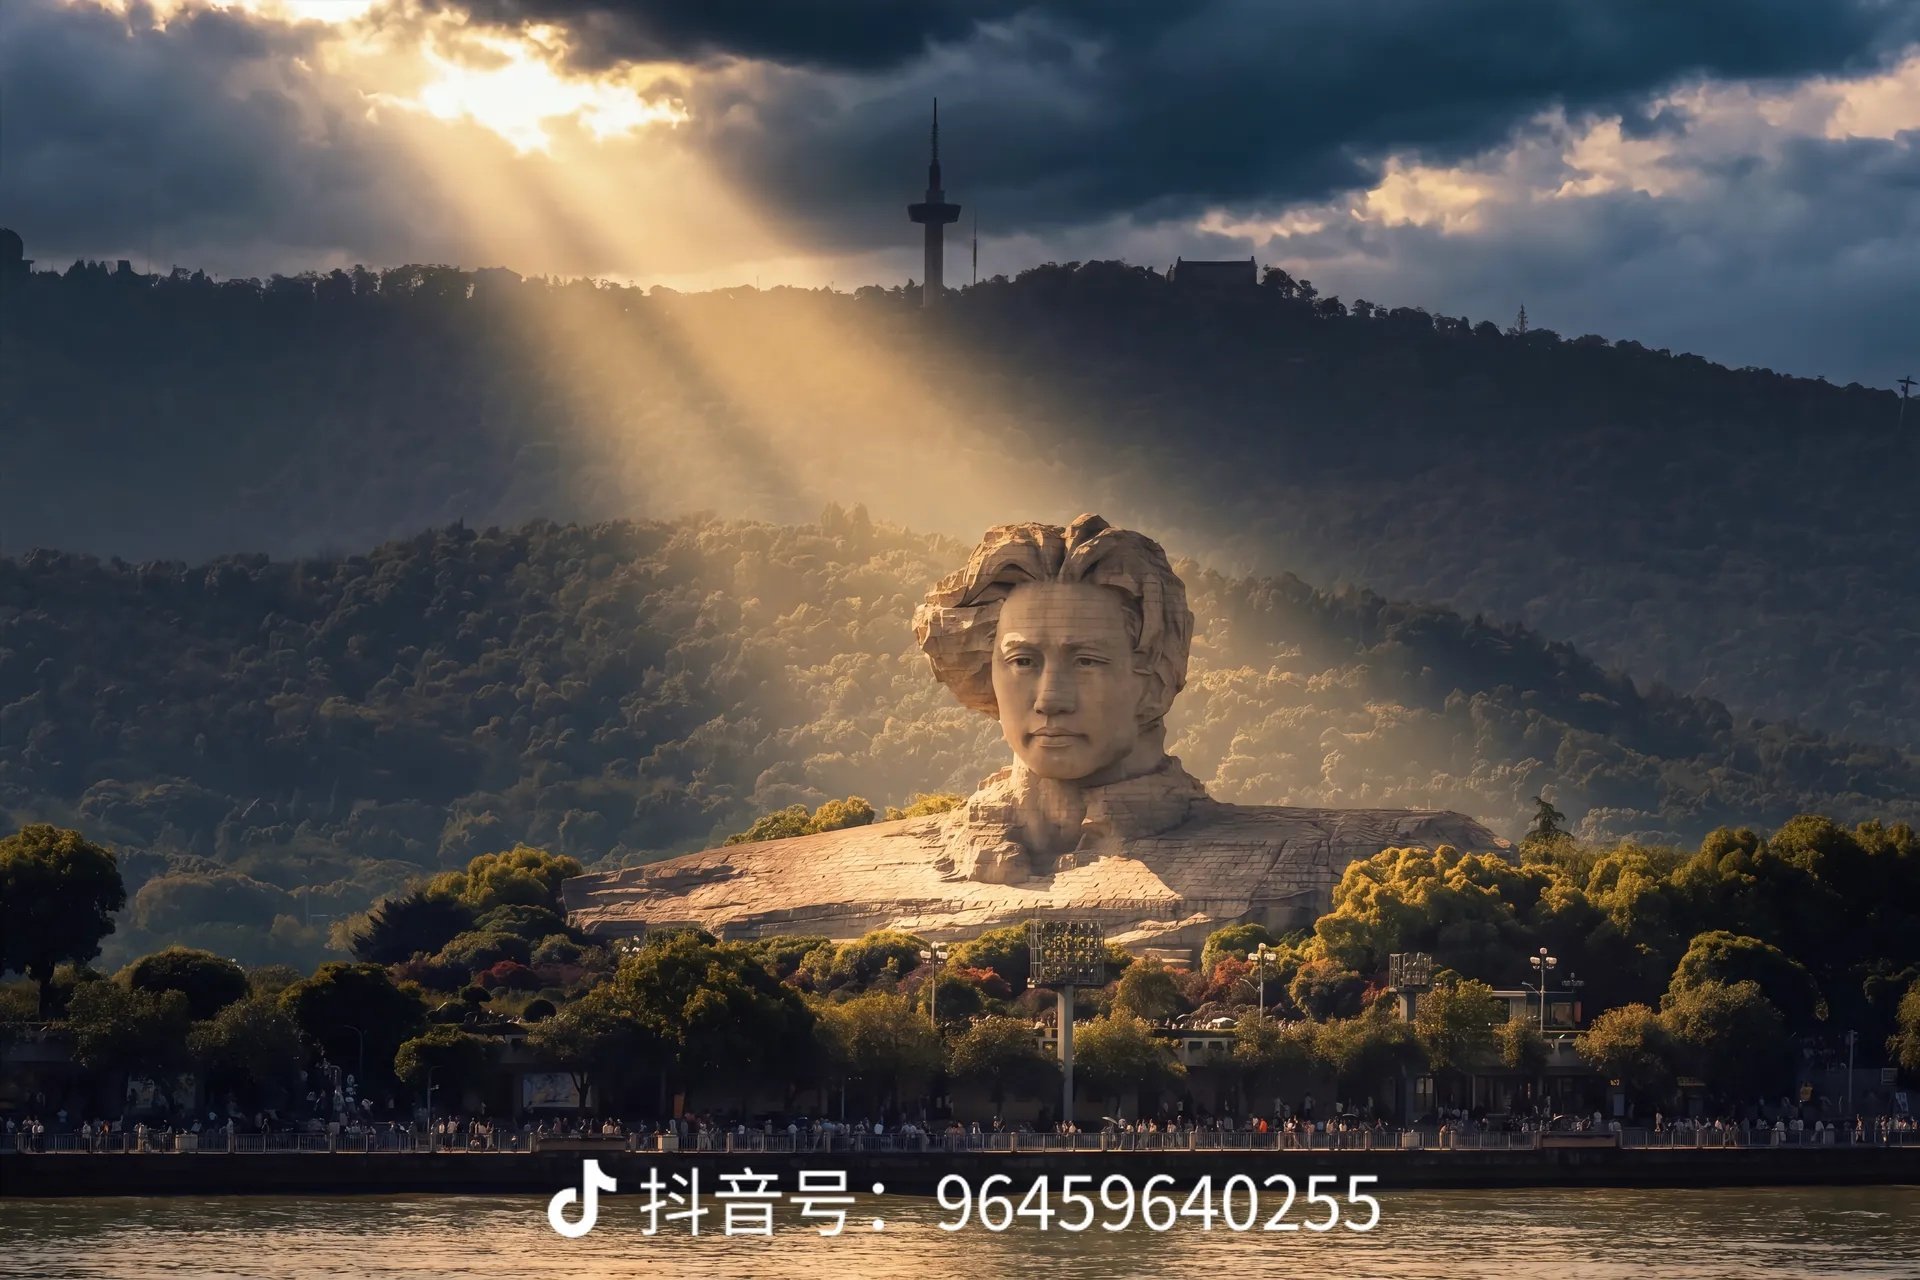
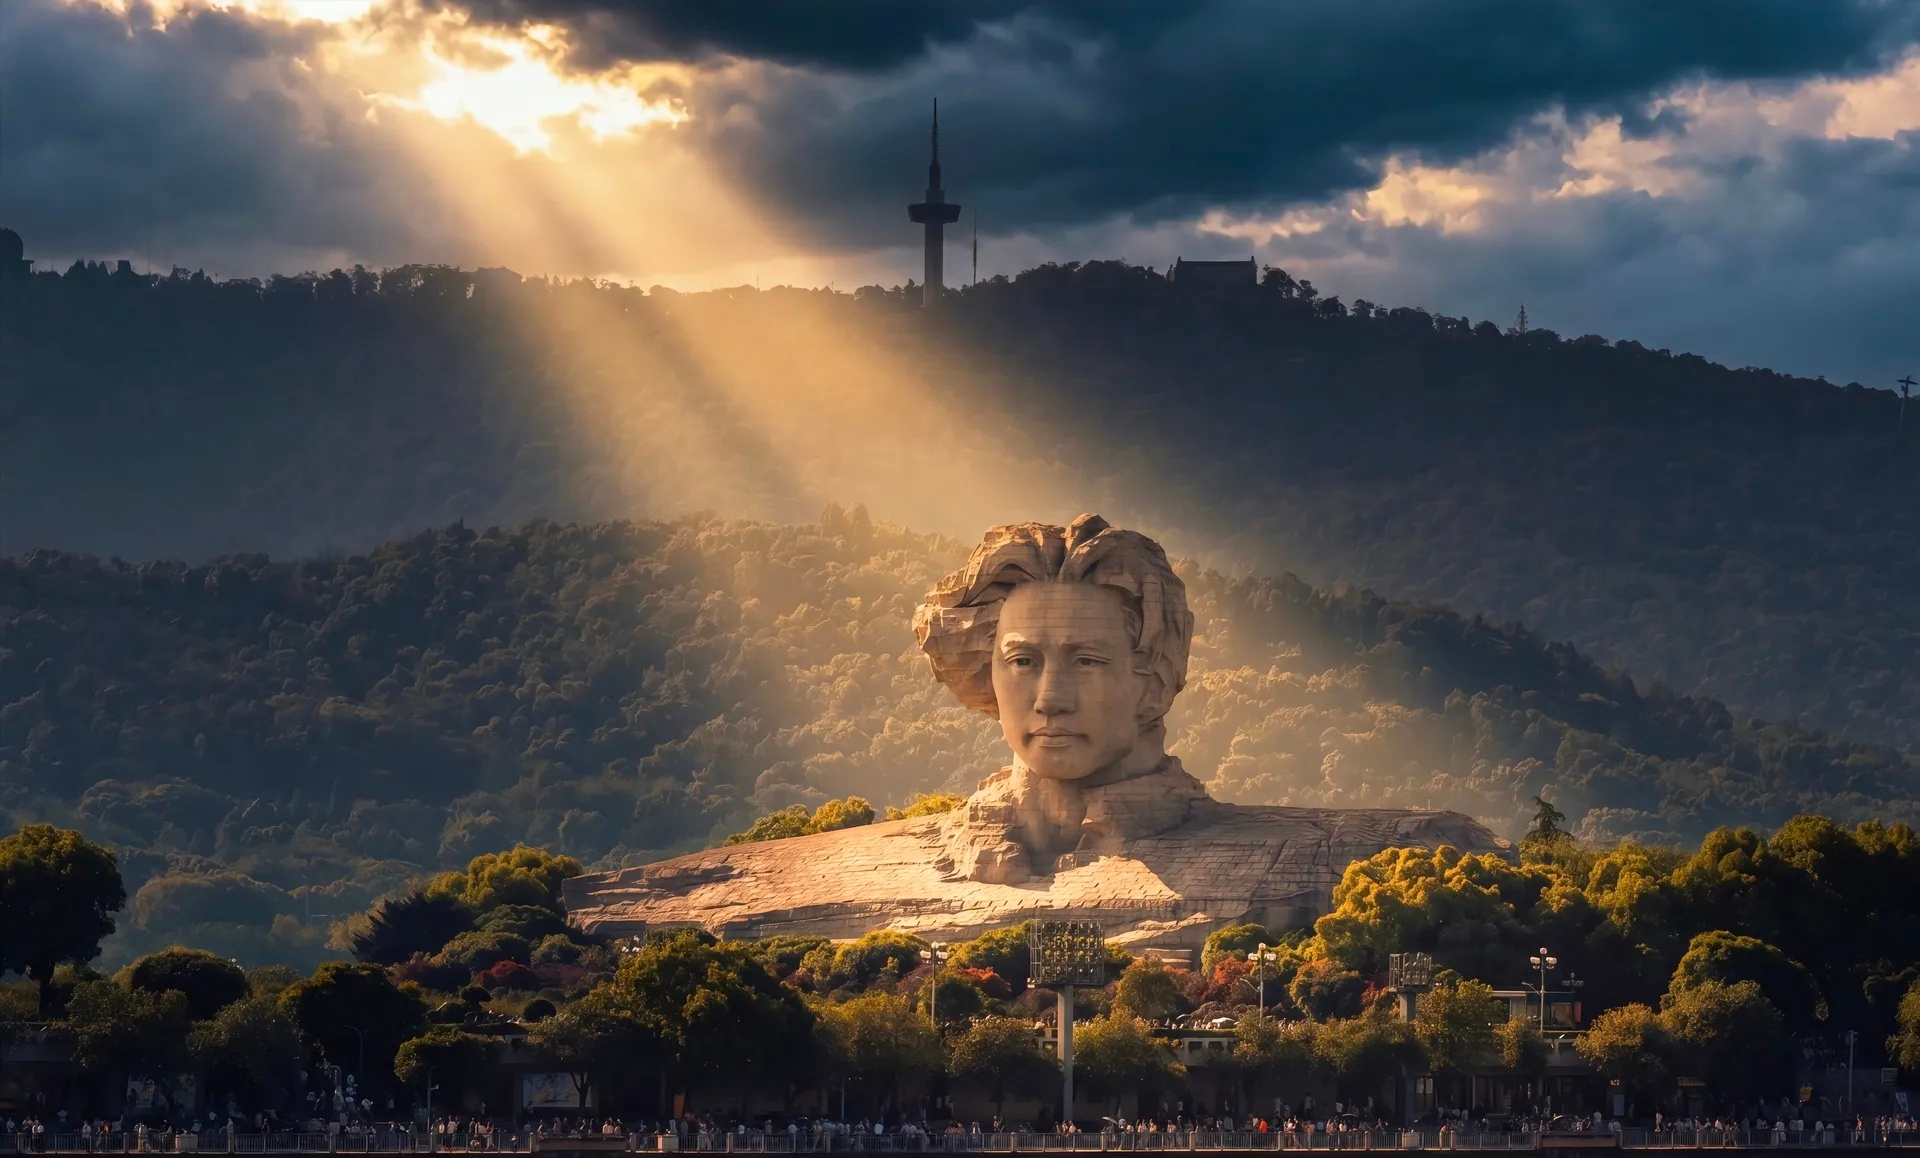
更新壁纸

diff --git a/source/js/video-bg.js b/source/js/video-bg.js
@@ -1,0 +1,119 @@
+/* =========================================================
+ * 视频背景：自动在 #web_bg 后面插入 <video> 作为动态背景
+ * - 加载失败/移动端自动回退到原图片背景
+ * - 视频静音自动播放循环（浏览器 autoplay 必须 muted）
+ * ========================================================= */
+(function () {
+  'use strict';
+
+  // ======== 在这里配置你的视频路径 ========
+  // 支持：本地文件（推荐放 source/videos/ 目录下）或外链 mp4/webm
+  // 同时也可以配置 webm 格式（体积更小，浏览器优先播 webm）
+  var CONFIG = {
+    // 主视频（mp4 兼容性最好，必填）
+    mp4: '/videos/bg.mp4',
+    // 可选：webm 格式（体积更小，优先播放，不支持可留空字符串 ''）
+    webm: '',
+    // 可选：视频首帧封面图（视频加载前显示，防止黑屏，不填留 ''）
+    poster: '/images/maozedong.jpg',
+    // 播放速度（1 = 原速，0.6 = 慢放，1.2 = 快放）
+    playbackRate: 1,
+    // 视频加载超时多少毫秒后放弃，回退到图片背景
+    timeout: 8000,
+  };
+  // =======================================
+
+  if (!CONFIG.mp4 && !CONFIG.webm) return;
+
+  function insertVideo() {
+    // 只在 body 存在时执行
+    if (!document.body) return;
+
+    // 避免重复插入
+    if (document.getElementById('video_bg')) return;
+
+    var video = document.createElement('video');
+    video.id = 'video_bg';
+    video.className = 'video-loading'; // 初始隐藏，等能播放时淡入
+    video.setAttribute('autoplay', '');
+    video.setAttribute('loop', '');
+    video.setAttribute('muted', '');
+    video.setAttribute('playsinline', ''); // iOS Safari 必须
+    video.setAttribute('webkit-playsinline', '');
+    video.setAttribute('preload', 'auto');
+    if (CONFIG.poster) video.setAttribute('poster', CONFIG.poster);
+
+    // 按优先级添加源：webm > mp4
+    var hasSource = false;
+    if (CONFIG.webm) {
+      var src1 = document.createElement('source');
+      src1.src = CONFIG.webm;
+      src1.type = 'video/webm';
+      video.appendChild(src1);
+      hasSource = true;
+    }
+    if (CONFIG.mp4) {
+      var src2 = document.createElement('source');
+      src2.src = CONFIG.mp4;
+      src2.type = 'video/mp4';
+      video.appendChild(src2);
+      hasSource = true;
+    }
+    if (!hasSource) return;
+
+    // 插入到 body 开头（作为第一子节点，层级在 #web_bg 之上）
+    document.body.insertBefore(video, document.body.firstChild);
+
+    // 错误兜底：任何情况加载失败，直接移除 video，退回到图片背景
+    function fallback() {
+      if (video && video.parentNode) {
+        video.parentNode.removeChild(video);
+      }
+    }
+
+    video.addEventListener('error', fallback, { once: true });
+    // 所有 <source> 都加载失败时触发
+    video.addEventListener(
+      'loadstart',
+      function () {
+        var timer = setTimeout(function () {
+          // 超时还没 loadeddata，可能网络差或文件不存在
+          if (video.readyState < 1) fallback();
+        }, CONFIG.timeout);
+        video.addEventListener(
+          'loadeddata',
+          function () {
+            clearTimeout(timer);
+            // 能播放了 → 淡入
+            requestAnimationFrame(function () {
+              video.classList.remove('video-loading');
+            });
+            if (CONFIG.playbackRate !== 1) {
+              try {
+                video.playbackRate = CONFIG.playbackRate;
+              } catch (e) {
+                /* ignore */
+              }
+            }
+            // 兜底：有些浏览器自动播放会被拦截，手动 play 一下
+            var p = video.play();
+            if (p && typeof p.catch === 'function') {
+              p.catch(function () {
+                fallback();
+              });
+            }
+          },
+          { once: true }
+        );
+      },
+      { once: true }
+    );
+  }
+
+  // DOM ready 就注入
+  if (document.readyState === 'loading') {
+    document.addEventListener('DOMContentLoaded', insertVideo, { once: true });
+  } else {
+    insertVideo();
+  }
+})();

diff --git a/source/css/custom.css b/source/css/custom.css
@@ -127,17 +127,35 @@ a.my-profile-item:hover {
   background-repeat: no-repeat !important;
   background-attachment: fixed !important;
 }
+/* 背景恢复原样：不叠加任何黑色变暗遮罩，直接显示图片原始亮度 */
 #web_bg::after {
-  content: '';
-  position: absolute;
+  display: none !important;
+  background: none !important;
+}
+
+/* ---------- 1.1 视频背景（与 #web_bg 同级，覆盖在图片背景之上） ---------- */
+#video_bg {
+  position: fixed;
   inset: 0;
-  background: linear-gradient(
-    180deg,
-    rgba(0, 0, 0, 0.2) 0%,
-    rgba(0, 0, 0, 0.35) 40%,
-    rgba(0, 0, 0, 0.55) 100%
-  );
-  z-index: -1;
+  width: 100vw;
+  height: 100vh;
+  z-index: -1; /* 比 #web_bg 的 -2 高一层，比内容的 0 低 */
+  object-fit: cover; /* 类似 background-size:cover，裁切铺满 */
+  pointer-events: none; /* 禁止点击视频 */
+  display: block;
+  opacity: 1;
+  transition: opacity 0.6s ease-in;
+}
+/* 视频还在加载/失败时隐藏，保持图片背景作为兜底 */
+#video_bg.video-loading {
+  opacity: 0;
+}
+/* 移动端（窄屏+触摸设备）默认禁用视频，省流量也更流畅，
+   如果你想强制手机也播放，把下面整段删掉即可 */
+@media (max-width: 768px), (hover: none) and (pointer: coarse) {
+  #video_bg {
+    display: none !important;
+  }
 }
 
 /* ---------- 2. 首页：主容器透明化，让出背景 ---------- */
